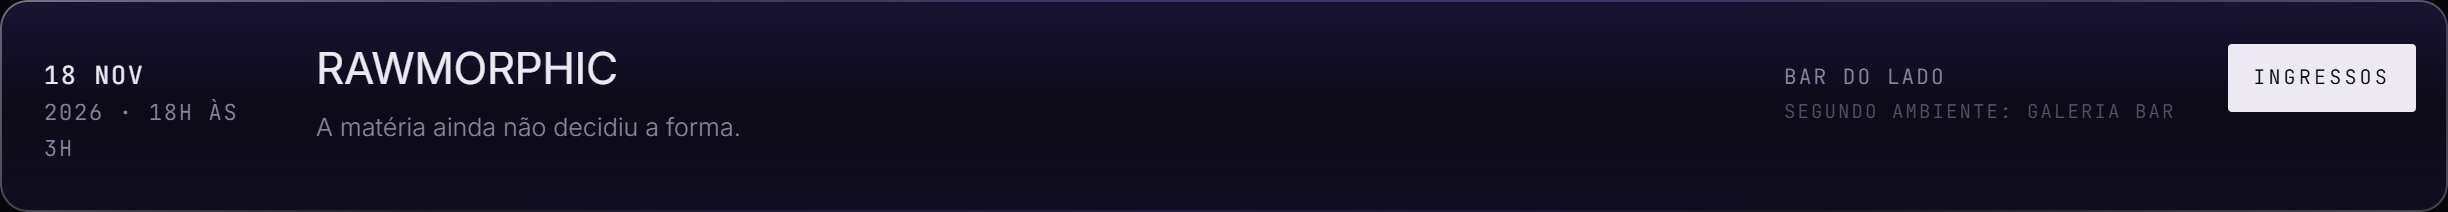
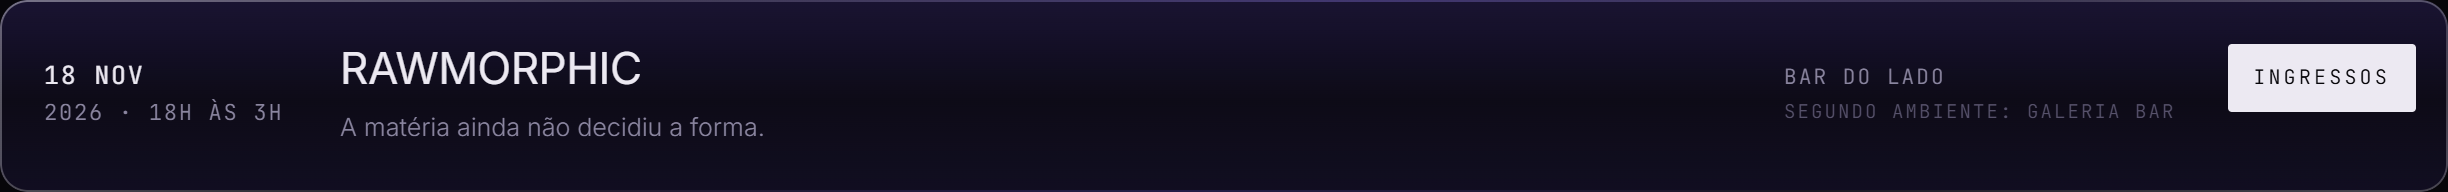
Lista de edições: data em uma linha só (coluna 128px + nowrap) e mobile 112px
'2026 · 18H ÀS 3H' quebrava em duas linhas na coluna de 116px.

diff --git a/verifica-live.js b/verifica-live.js
@@ -1,0 +1,35 @@
+/**
+ * verifica-live.js — screenshots del sitio PUBLICADO (Render) para confirmar en vivo.
+ */
+const puppeteer = require('puppeteer-core');
+const path = require('path');
+
+const CHROME = 'C:\\Program Files\\Google\\Chrome\\Application\\chrome.exe';
+const OUT = path.join(__dirname, 'shots');
+const URL = 'https://festa-sem-nome.onrender.com';
+
+(async () => {
+  const browser = await puppeteer.launch({
+    executablePath: CHROME,
+    headless: 'new',
+    args: ['--enable-unsafe-swiftshader', '--no-sandbox', '--window-size=1440,1000'],
+  });
+  const page = await browser.newPage();
+  await page.setViewport({ width: 1440, height: 1000, deviceScaleFactor: 2 });
+  await page.goto(URL, { waitUntil: 'networkidle2', timeout: 90000 });
+  await page.waitForSelector('#ev-list .ev-row', { timeout: 60000 });
+  const marca = await page.$eval('.brand-text', (e) => e.textContent.trim());
+  const titulo = await page.title();
+  const filas = await page.$$eval('#ev-list .ev-row', (r) => r.length);
+  console.log('LIVE marca="%s" title="%s" filas=%d', marca, titulo, filas);
+  const rows = await page.$$('#ev-list .ev-row');
+  await rows[0].hover();
+  await new Promise((r) => setTimeout(r, 600));
+  await page.mouse.move(5, 5);
+  await new Promise((r) => setTimeout(r, 400));
+  const sec = await page.$('#eventos');
+  await sec.screenshot({ path: path.join(OUT, 'live-eventos.png') });
+  await page.screenshot({ path: path.join(OUT, 'live-full.png') });
+  console.log('OK shots/live-eventos.png + live-full.png');
+  await browser.close();
+})();

diff --git a/public/css/style.css b/public/css/style.css
@@ -306,7 +306,7 @@ button { font: inherit; color: inherit; background: none; border: none; cursor: 
 .ev-row {
   position: relative;
   display: grid;
-  grid-template-columns: 116px minmax(0, 1fr) 200px 96px;
+  grid-template-columns: 128px minmax(0, 1fr) 200px 96px;
   gap: 20px;
   align-items: baseline;
   padding: 22px 16px;
@@ -372,6 +372,7 @@ button { font: inherit; color: inherit; background: none; border: none; cursor: 
 .ev-date {
   font-family: var(--mono);
   font-size: 11px;
+  white-space: nowrap; /* "2026 · 18H ÀS 3H" não pode quebrar em duas linhas */
   letter-spacing: 0.08em;
   color: var(--ink-dim);
   text-transform: uppercase;
@@ -498,7 +499,7 @@ button { font: inherit; color: inherit; background: none; border: none; cursor: 
   .poster-frame { max-width: 380px; margin: 0 auto; }
   .poster-note { text-align: center; }
   .two-col { grid-template-columns: 1fr; }
-  .ev-row { grid-template-columns: 92px minmax(0, 1fr); row-gap: 10px; }
+  .ev-row { grid-template-columns: 112px minmax(0, 1fr); row-gap: 10px; }
   .ev-venue { grid-column: 2; }
   .ev-cta { grid-column: 2; justify-self: start; }
   .ftr { grid-template-columns: 1fr; }
